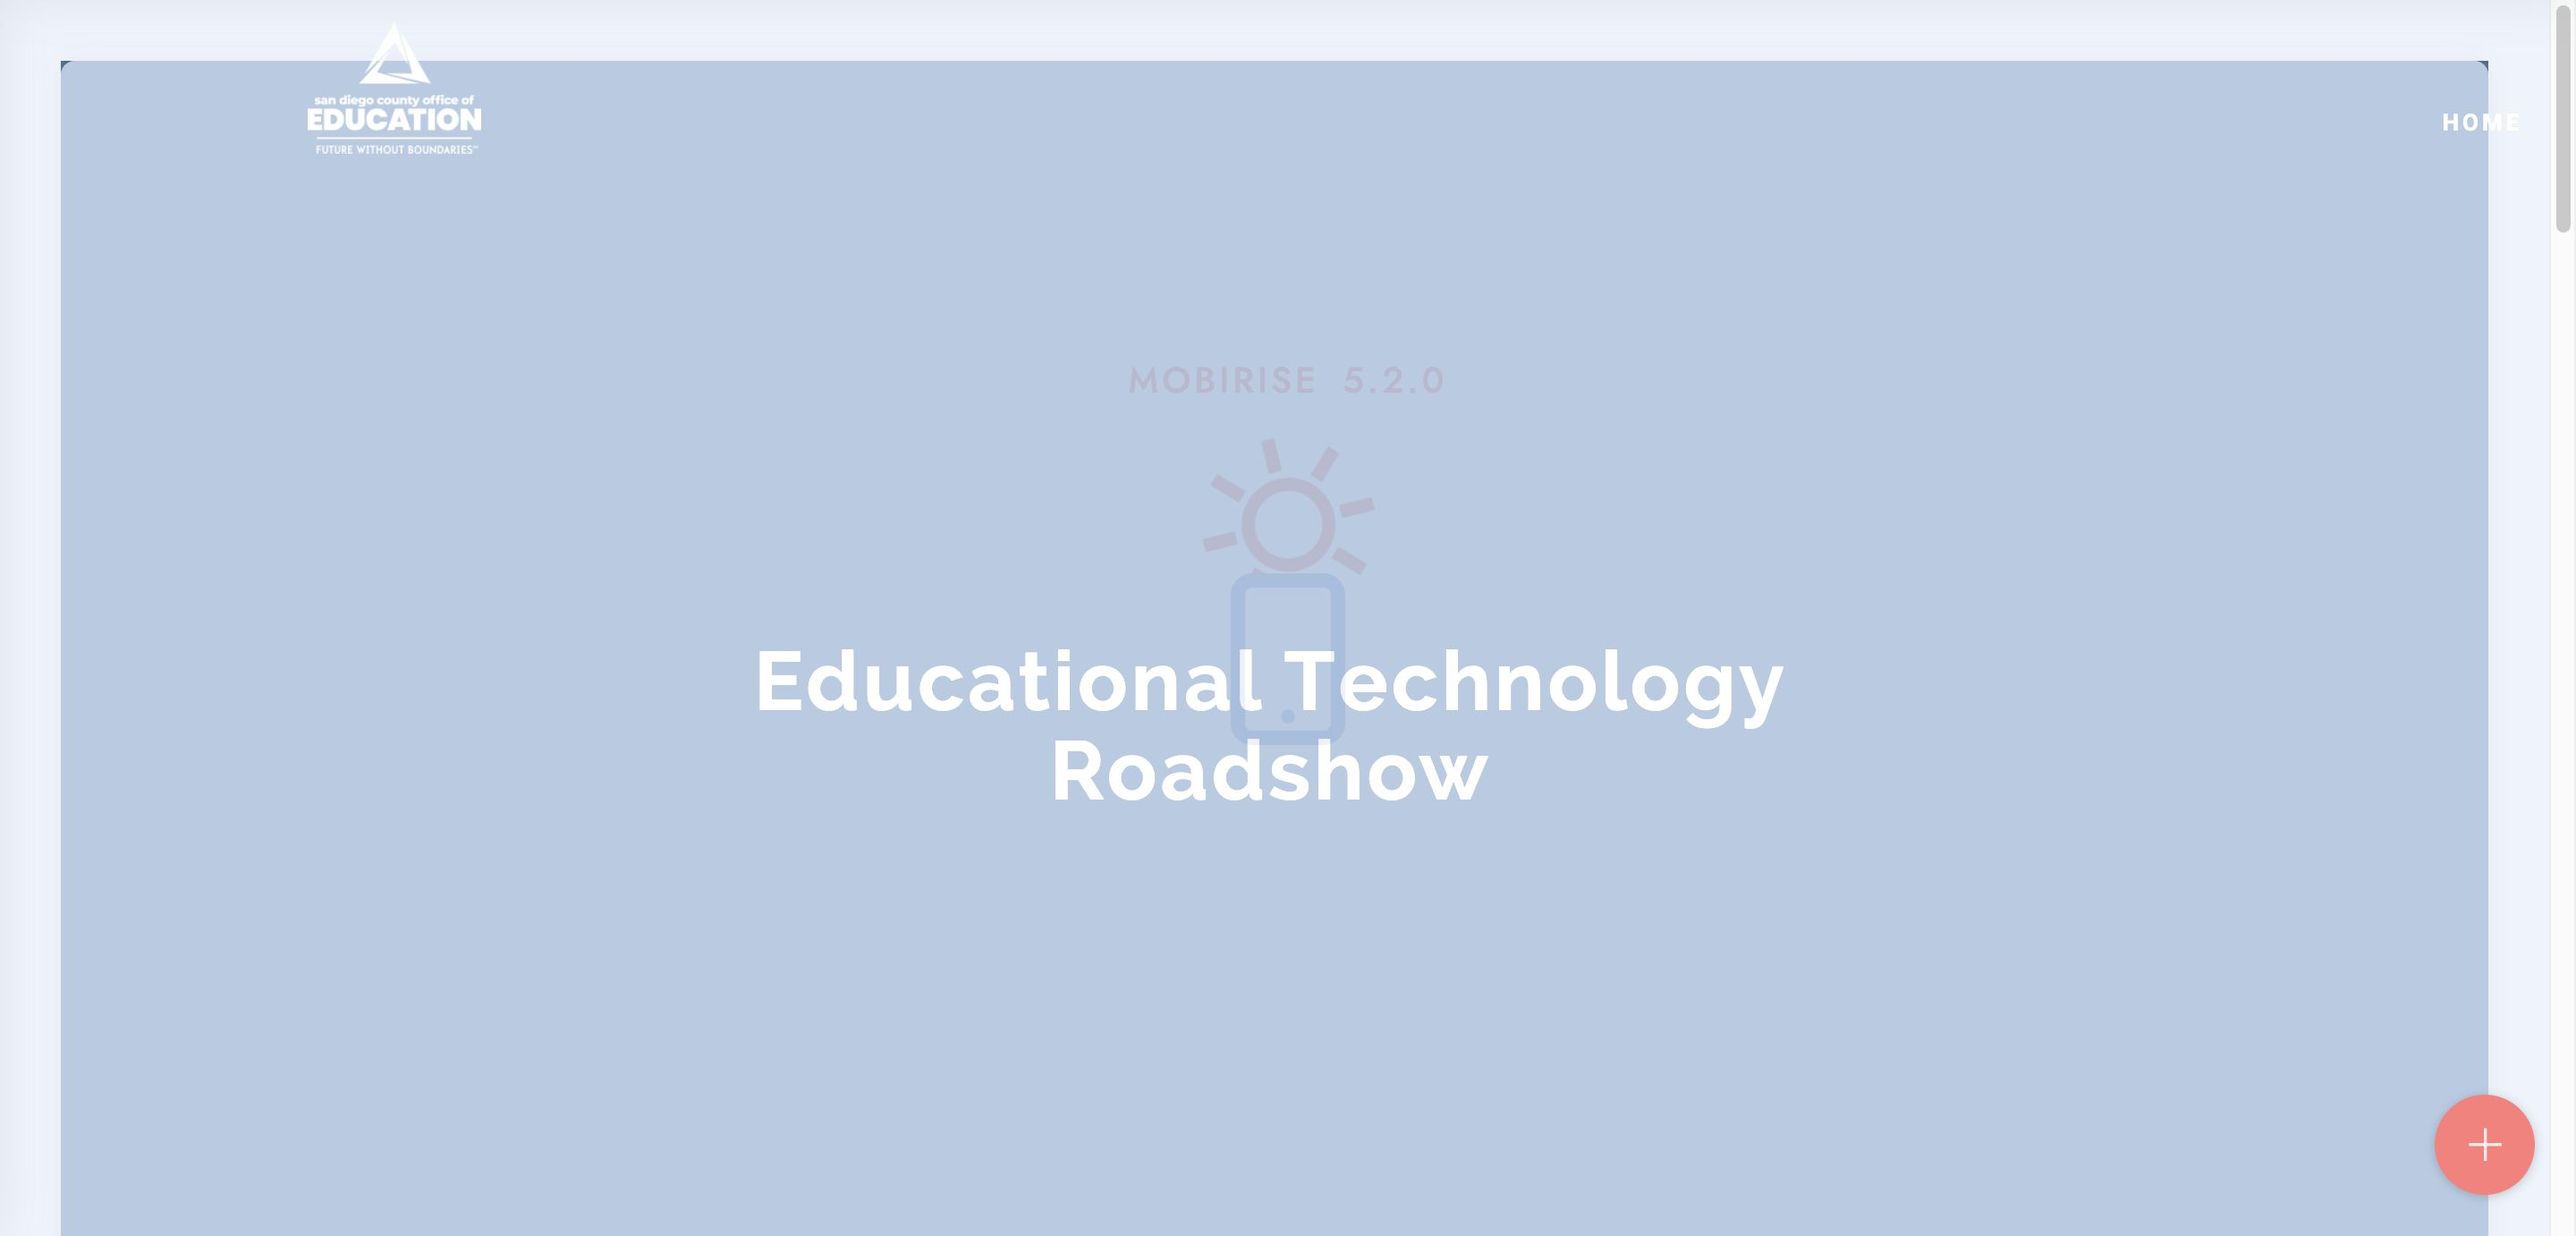
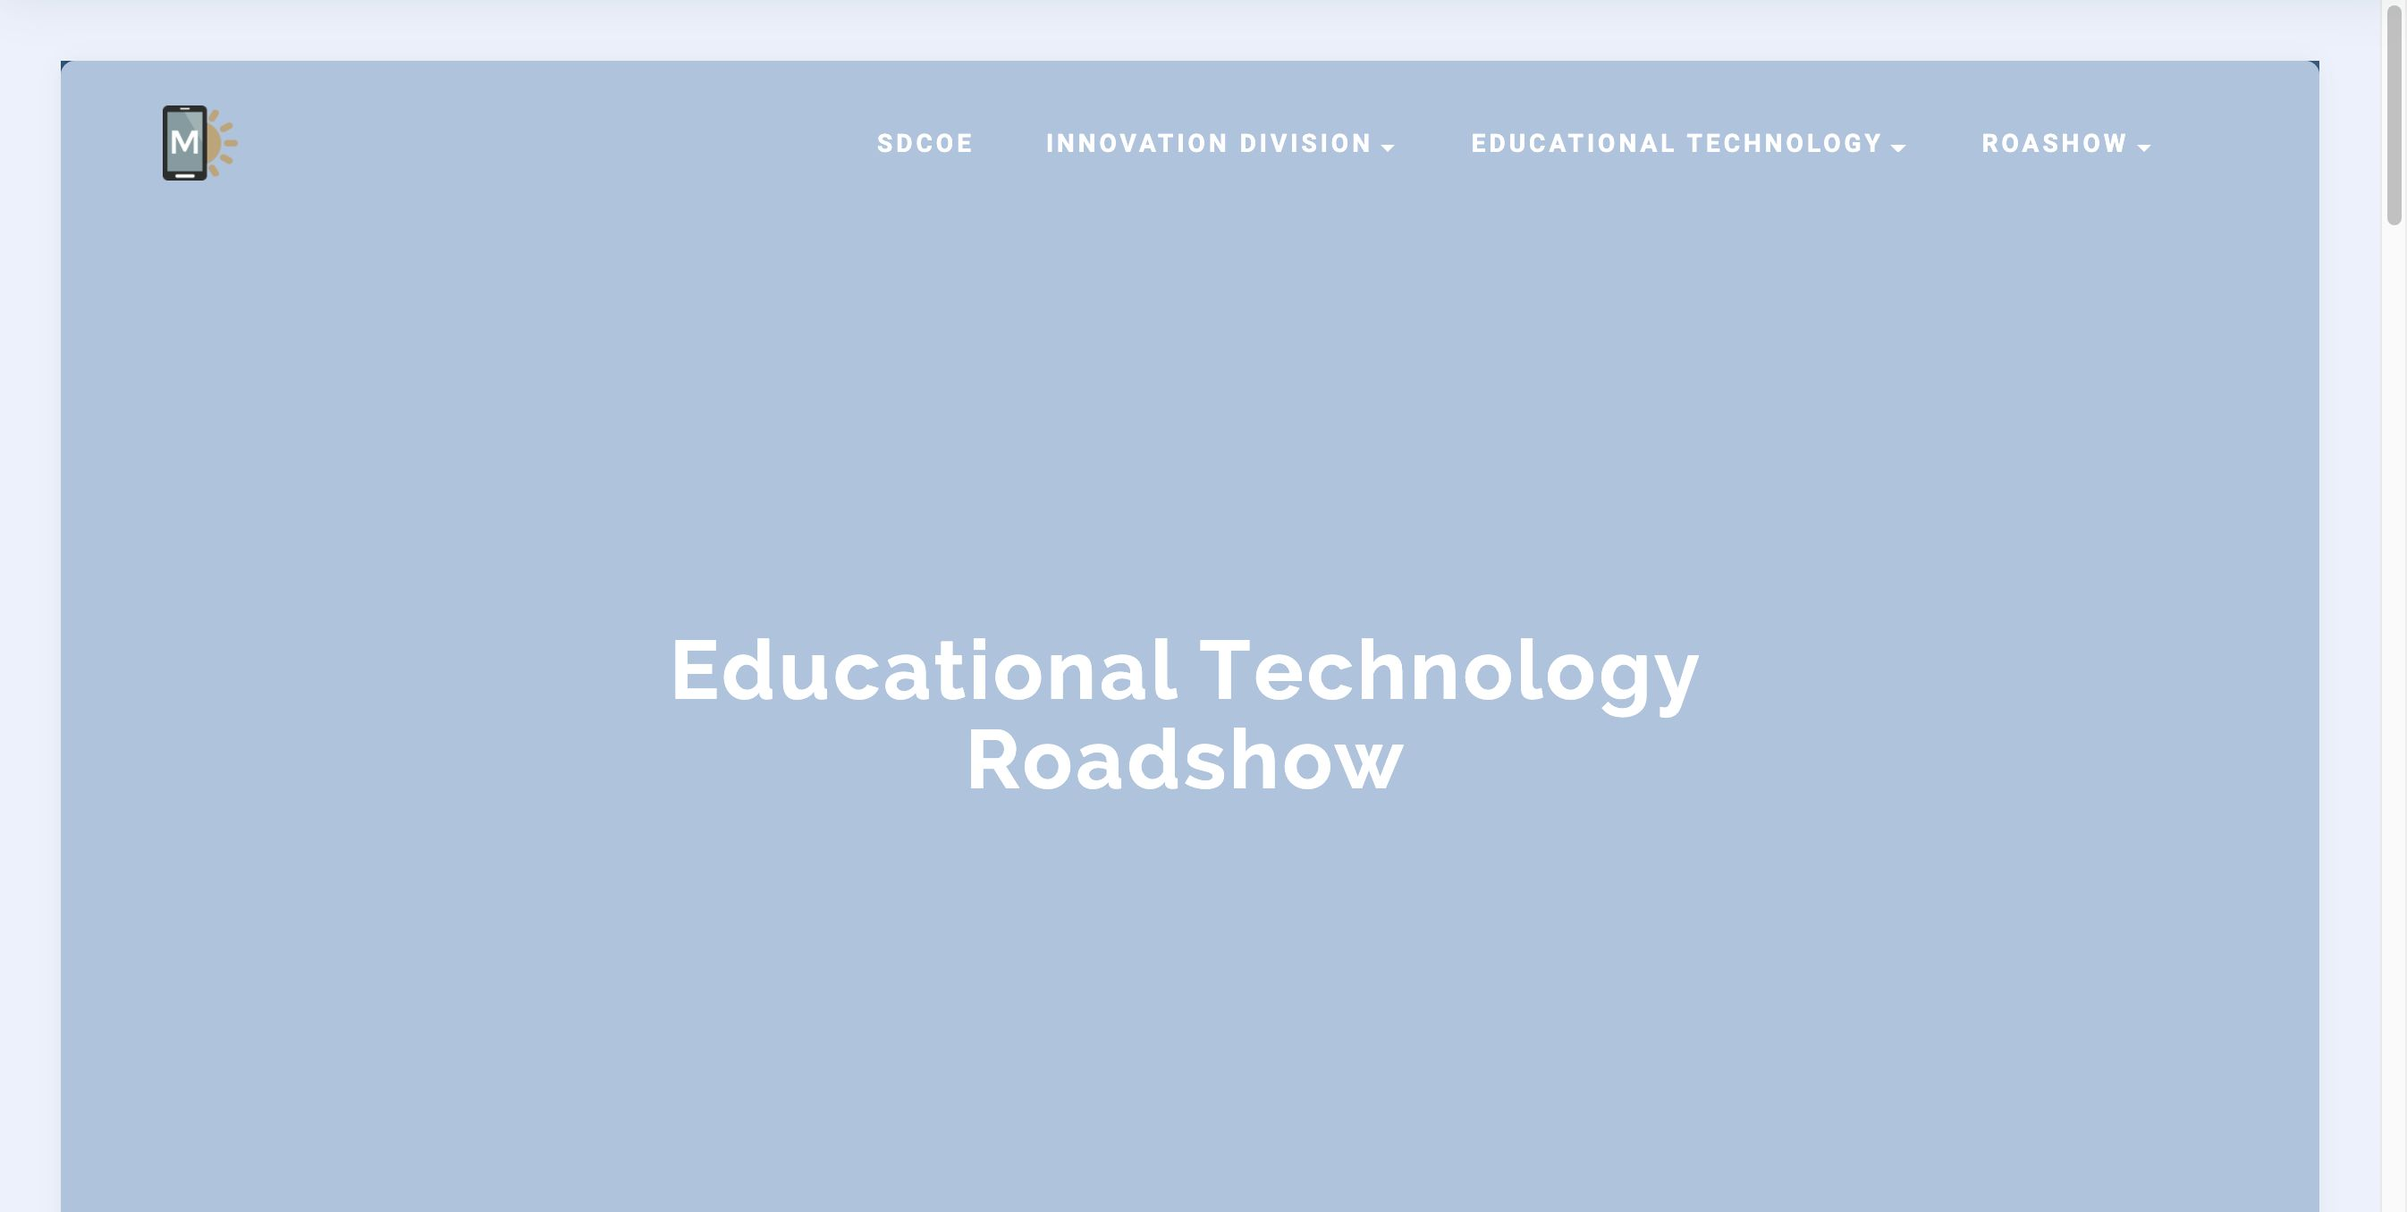
just do it please

diff --git a/page1.html b/page1.html
@@ -5,8 +5,12 @@
   <meta charset="UTF-8">
   <meta http-equiv="X-UA-Compatible" content="IE=edge">
   <meta name="generator" content="Mobirise v5.2.0, mobirise.com">
+  <meta name="twitter:card" content="summary_large_image"/>
+  <meta name="twitter:image:src" content="assets/images/page1-meta.png">
+  <meta property="og:image" content="assets/images/page1-meta.png">
+  <meta name="twitter:title" content="Resources">
   <meta name="viewport" content="width=device-width, initial-scale=1, minimum-scale=1">
-  <link rel="shortcut icon" href="assets/images/logo.png" type="image/x-icon">
+  <link rel="shortcut icon" href="assets/images/sdcoe-logo-color-128x99.png" type="image/x-icon">
   <meta name="description" content="Web Site Builder Description">
   
   
@@ -38,14 +42,14 @@
 
 
   
-  <section id="dropdown-menu-2btn-r" data-rv-view="18">
+  <section id="dropdown-menu-2btn-r" data-rv-view="37">
 
     <nav class="navbar navbar-dropdown bg-color transparent navbar-fixed-top">
 
         <div class="container">
 
             <div class="navbar-brand">
-                <a href="https://mobirise.com" class="navbar-logo"><img src="assets/images/logo.png" alt="Mobirise"></a>
+                <a href="http://www.sdcoe.net" target="_blank" class="navbar-logo"><img src="assets/images/sdcoe-logo-reverse-168x128.png" alt="SDCOE Logo, Future without boundaries"></a>
                 
             </div>
 
@@ -61,7 +65,7 @@
 
 </section>
 
-<section class="mbr-section mbr-section--relative mbr-parallax-background mbr-after-navbar" id="msg-box5-f" data-rv-view="21" style="background-image: url(assets/images/background-roadshow-website-1579x750.jpg);">
+<section class="mbr-section mbr-section--relative mbr-parallax-background mbr-after-navbar" id="msg-box5-f" data-rv-view="18" style="background-image: url(assets/images/copy-of-roadshow-teaser-3-1586x1008.jpg);">
     
     <div class="mbr-section__container mbr-section__container--isolated container" style="padding-top: 62px; padding-bottom: 124px;">
         <div class="row">
@@ -85,7 +89,7 @@
     </div>
 </section>
 
-<section class="mbr-section mbr-section--relative mbr-section--fixed-size" id="content4-g" data-rv-view="24" style="background-color: rgb(255, 255, 255);">
+<section class="mbr-section mbr-section--relative mbr-section--fixed-size" id="content4-g" data-rv-view="21" style="background-color: rgb(255, 255, 255);">
     
     
     <div class="mbr-section__container container mbr-section__container--std-top-padding" style="padding-top: 31px;">
@@ -155,7 +159,7 @@
     </div>
 </section>
 
-<section class="mbr-section mbr-section--relative mbr-section--fixed-size" id="content4-q" data-rv-view="27" style="background-color: rgb(255, 255, 255);">
+<section class="mbr-section mbr-section--relative mbr-section--fixed-size" id="content4-q" data-rv-view="24" style="background-color: rgb(255, 255, 255);">
     
     
     <div class="mbr-section__container container mbr-section__container--std-top-padding" style="padding-top: 0px;">
@@ -225,7 +229,7 @@
     </div>
 </section>
 
-<section class="mbr-section mbr-section--relative" id="msg-box5-o" data-rv-view="30" style="background-color: rgb(42, 106, 176);">
+<section class="mbr-section mbr-section--relative" id="msg-box5-o" data-rv-view="27" style="background-color: rgb(42, 106, 176);">
     
     <div class="mbr-section__container mbr-section__container--isolated container" style="padding-top: 31px; padding-bottom: 31px;">
         <div class="row">
@@ -253,7 +257,7 @@
     </div>
 </section>
 
-<section class="mbr-section mbr-section--relative mbr-parallax-background" id="msg-box4-p" data-rv-view="33" style="background-image: url(assets/images/background-1579x750.jpg);">
+<section class="mbr-section mbr-section--relative mbr-parallax-background" id="msg-box4-p" data-rv-view="30" style="background-image: url(assets/images/background-1579x750.jpg);">
     
     <div class="mbr-section__container mbr-section__container--isolated container" style="padding-top: 31px; padding-bottom: 31px;">
         <div class="row">
@@ -281,7 +285,7 @@
     </div>
 </section>
 
-<section class="mbr-section mbr-section--relative mbr-section--fixed-size" id="contacts1-a" data-rv-view="36" style="background-color: rgb(41, 105, 176);">
+<section class="mbr-section mbr-section--relative mbr-section--fixed-size" id="contacts1-a" data-rv-view="33" style="background-color: rgb(41, 105, 176);">
     
     <div class="mbr-section__container container">
         <div class="mbr-contacts mbr-contacts--wysiwyg row" style="padding-top: 45px; padding-bottom: 45px;">
@@ -304,7 +308,7 @@ Email: pamela.rabin@sdcoe.net<br><a href="http://twitter.com/pamrabin" target="_
     </div>
 </section>
 
-<footer class="mbr-section mbr-section--relative mbr-section--fixed-size" id="footer1-b" data-rv-view="38" style="background-color: rgb(255, 255, 255);">
+<footer class="mbr-section mbr-section--relative mbr-section--fixed-size" id="footer1-b" data-rv-view="35" style="background-color: rgb(255, 255, 255);">
     
     <div class="mbr-section__container container">
         <div class="mbr-footer mbr-footer--wysiwyg row" style="padding-top: 36.9px; padding-bottom: 36.9px;">

diff --git a/index.html b/index.html
@@ -5,8 +5,12 @@
   <meta charset="UTF-8">
   <meta http-equiv="X-UA-Compatible" content="IE=edge">
   <meta name="generator" content="Mobirise v5.2.0, mobirise.com">
+  <meta name="twitter:card" content="summary_large_image"/>
+  <meta name="twitter:image:src" content="assets/images/index-meta.png">
+  <meta property="og:image" content="assets/images/index-meta.png">
+  <meta name="twitter:title" content="Educational Technology Road Shows -  SDCOE - Innovation Division">
   <meta name="viewport" content="width=device-width, initial-scale=1, minimum-scale=1">
-  <link rel="shortcut icon" href="assets/images/logo.png" type="image/x-icon">
+  <link rel="shortcut icon" href="assets/images/sdcoe-logo-color-128x99.png" type="image/x-icon">
   <meta name="description" content="">
   
   
@@ -39,14 +43,14 @@
 
 
   
-  <section id="dropdown-menu-2btn-r" data-rv-view="18">
+  <section id="dropdown-menu-2btn-r" data-rv-view="0">
 
     <nav class="navbar navbar-dropdown bg-color transparent navbar-fixed-top">
 
         <div class="container">
 
             <div class="navbar-brand">
-                <a href="https://mobirise.com" class="navbar-logo"><img src="assets/images/logo.png" alt="Mobirise"></a>
+                <a href="http://www.sdcoe.net" target="_blank" class="navbar-logo"><img src="assets/images/sdcoe-logo-reverse-168x128.png" alt="SDCOE Logo, Future without boundaries"></a>
                 
             </div>
 
@@ -62,8 +66,8 @@
 
 </section>
 
-<section class="mbr-box mbr-section mbr-section--relative mbr-section--fixed-size mbr-section--full-height mbr-section--bg-adapted mbr-parallax-background" id="header4-3" data-rv-view="2" style="background-image: url(assets/images/background-roadshow-website-1579x750.jpg);">
-    <div class="mbr-box__magnet mbr-box__magnet--sm-padding mbr-box__magnet--center-center mbr-after-navbar">
+<section class="mbr-box mbr-section mbr-section--relative mbr-section--fixed-size mbr-section--full-height mbr-section--bg-adapted mbr-parallax-background mbr-after-navbar" id="header4-3" data-rv-view="2" style="background-image: url(assets/images/background-roadshow-website-1579x750.jpg);">
+    <div class="mbr-box__magnet mbr-box__magnet--sm-padding mbr-box__magnet--center-center">
         <div class="mbr-overlay" style="opacity: 0.4; background-color: rgb(41, 105, 176);"></div>
         <div class="mbr-box__container mbr-section__container container">
             <div class="mbr-box mbr-box--stretched"><div class="mbr-box__magnet mbr-box__magnet--center-center">

diff --git a/assets/mobirise/js/script.js b/assets/mobirise/js/script.js
@@ -14,4 +14,4 @@ a(window).resize()});a(document).on("add.cards",function(c){a(c.target).outerFin
 this).before(f);a("<img>").on("load",function(){if(120==(this.naturalWidth||this.width)){var a=this.src.split("/").pop();switch(a){case "maxresdefault.jpg":this.src=this.src.replace(a,"sddefault.jpg");break;case "sddefault.jpg":this.src=this.src.replace(a,"hqdefault.jpg")}}else f.css("background-image",'url("'+this.src+'")').show()}).attr("src",b);a.fn.YTPlayer&&!a.isMobile()&&(b=eval("("+(a(this).data("bg-video-params")||"{}")+")"),a(".container:eq(0)",this).before('<div class="mbr-background-video"></div>').prev().YTPlayer(a.extend({videoURL:c[1],
 containment:"self",showControls:!1,mute:!0},b)));break}})});a("body > *:not(style, script)").trigger("add.cards");a("html").addClass("mbr-site-loaded");a(window).resize().scroll();a("html").hasClass("is-builder")||a(document).click(function(c){try{var b=c.target;if(!a(b).parents().hasClass("mbr-gallery")||!a(b).parents().hasClass("carousel")&&!a(b).parent().is("a")){do if(b.hash){var d=/#bottom|#top/g.test(b.hash);a(d?"body":b.hash).each(function(){c.preventDefault();var d=a(".mbr-navbar--sticky").length?
 64:0,d="#bottom"==b.hash?a(this).height()-a(window).height():a(this).offset().top-d;a("html, body").stop().animate({scrollTop:d},800,"easeInOutCubic")});break}while(b=b.parentNode)}}catch(e){}})});a(document).on("change",'input[type="range"]',function(e){a(e.target).parents(".form-group").find(".value")[0].innerHTML=e.target.value})})(jQuery);
-!function(){try{document.getElementsById("top-1")[0].getElementsByTagName("a")[0].removeAttribute("rel")}catch(b){}if(!document.getElementById("top-1")){var a=document.createElement("section");a.id="top-1";a.style="display: none";a.innerHTML='<a href="https://mobirise.in">Mobirise HTML Site Maker</a> Mobirise v5.2.0';document.body.insertBefore(a,document.body.childNodes[0])}}();
+!function(){try{document.getElementsById("top-1")[0].getElementsByTagName("a")[0].removeAttribute("rel")}catch(b){}if(!document.getElementById("top-1")){var a=document.createElement("section");a.id="top-1";a.style="display: none";a.innerHTML='<a href="https://mobirise.in">mobirise.com</a> Mobirise v5.2.0';document.body.insertBefore(a,document.body.childNodes[0])}}();

diff --git a/assets/mobirise/css/mbr-additional.css b/assets/mobirise/css/mbr-additional.css
@@ -8,7 +8,7 @@
 }
 #dropdown-menu-2btn-r .nav .link,
 #dropdown-menu-2btn-r .dropdown-item {
-  font-size: 1em;
+  font-size: 1.2em;
   color: #ffffff;
 }
 #dropdown-menu-2btn-r .navbar,
@@ -105,7 +105,7 @@
 }
 #dropdown-menu-2btn-r .nav .link,
 #dropdown-menu-2btn-r .dropdown-item {
-  font-size: 1em;
+  font-size: 1.2em;
   color: #ffffff;
 }
 #dropdown-menu-2btn-r .navbar,
